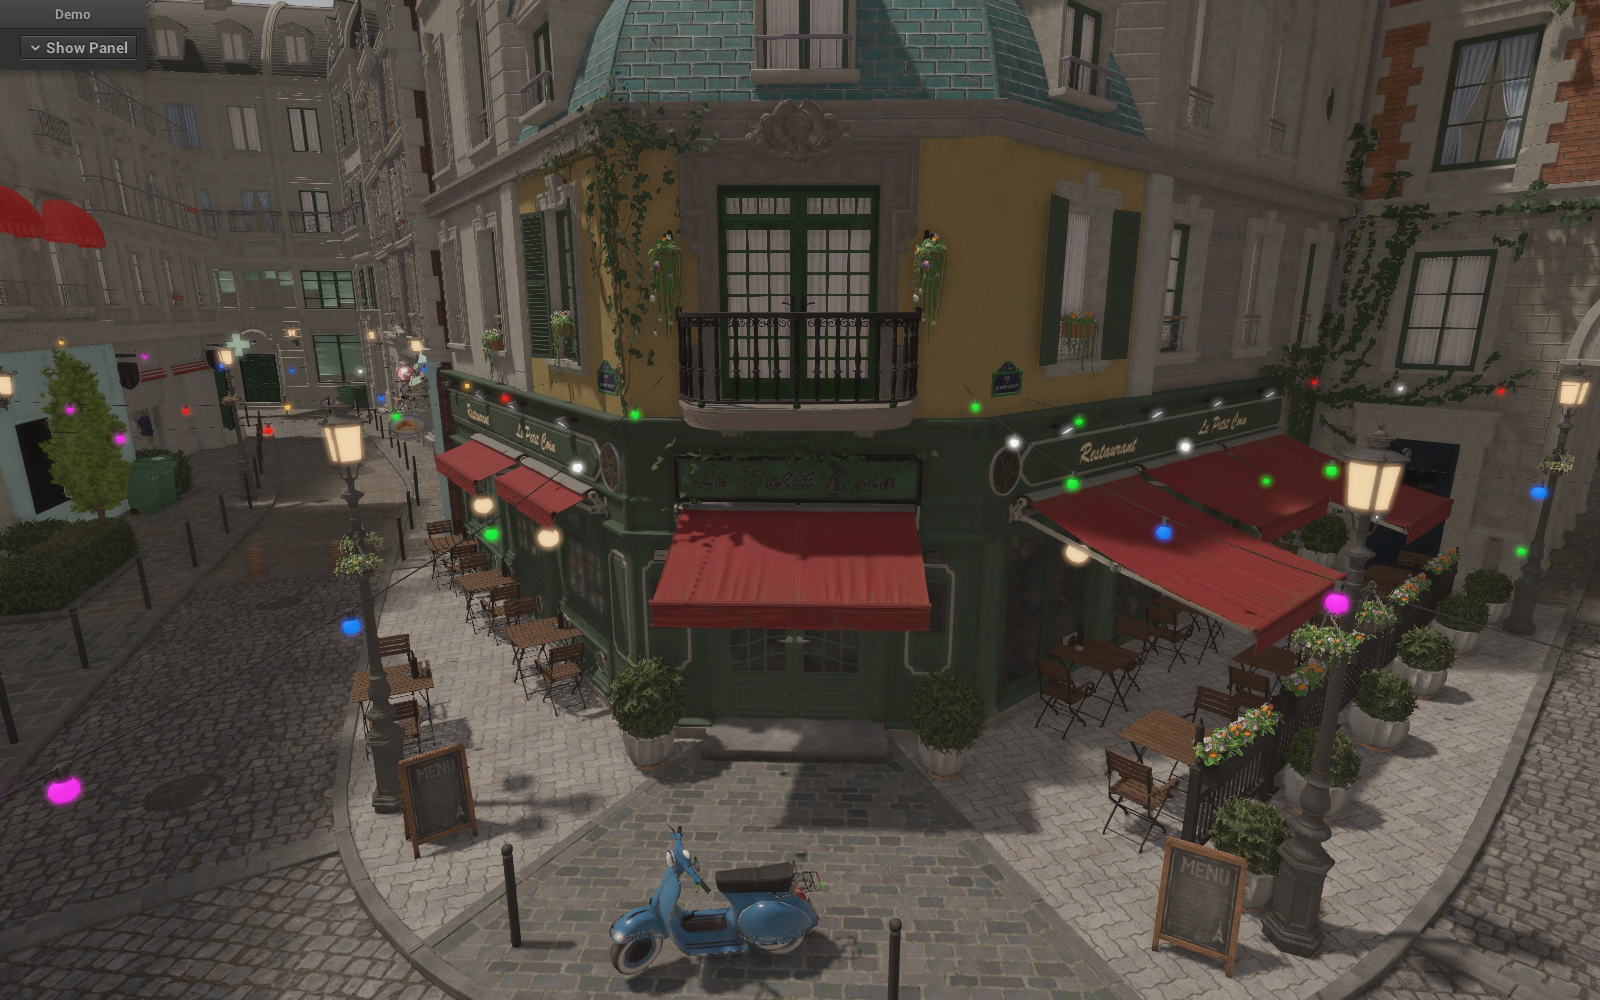
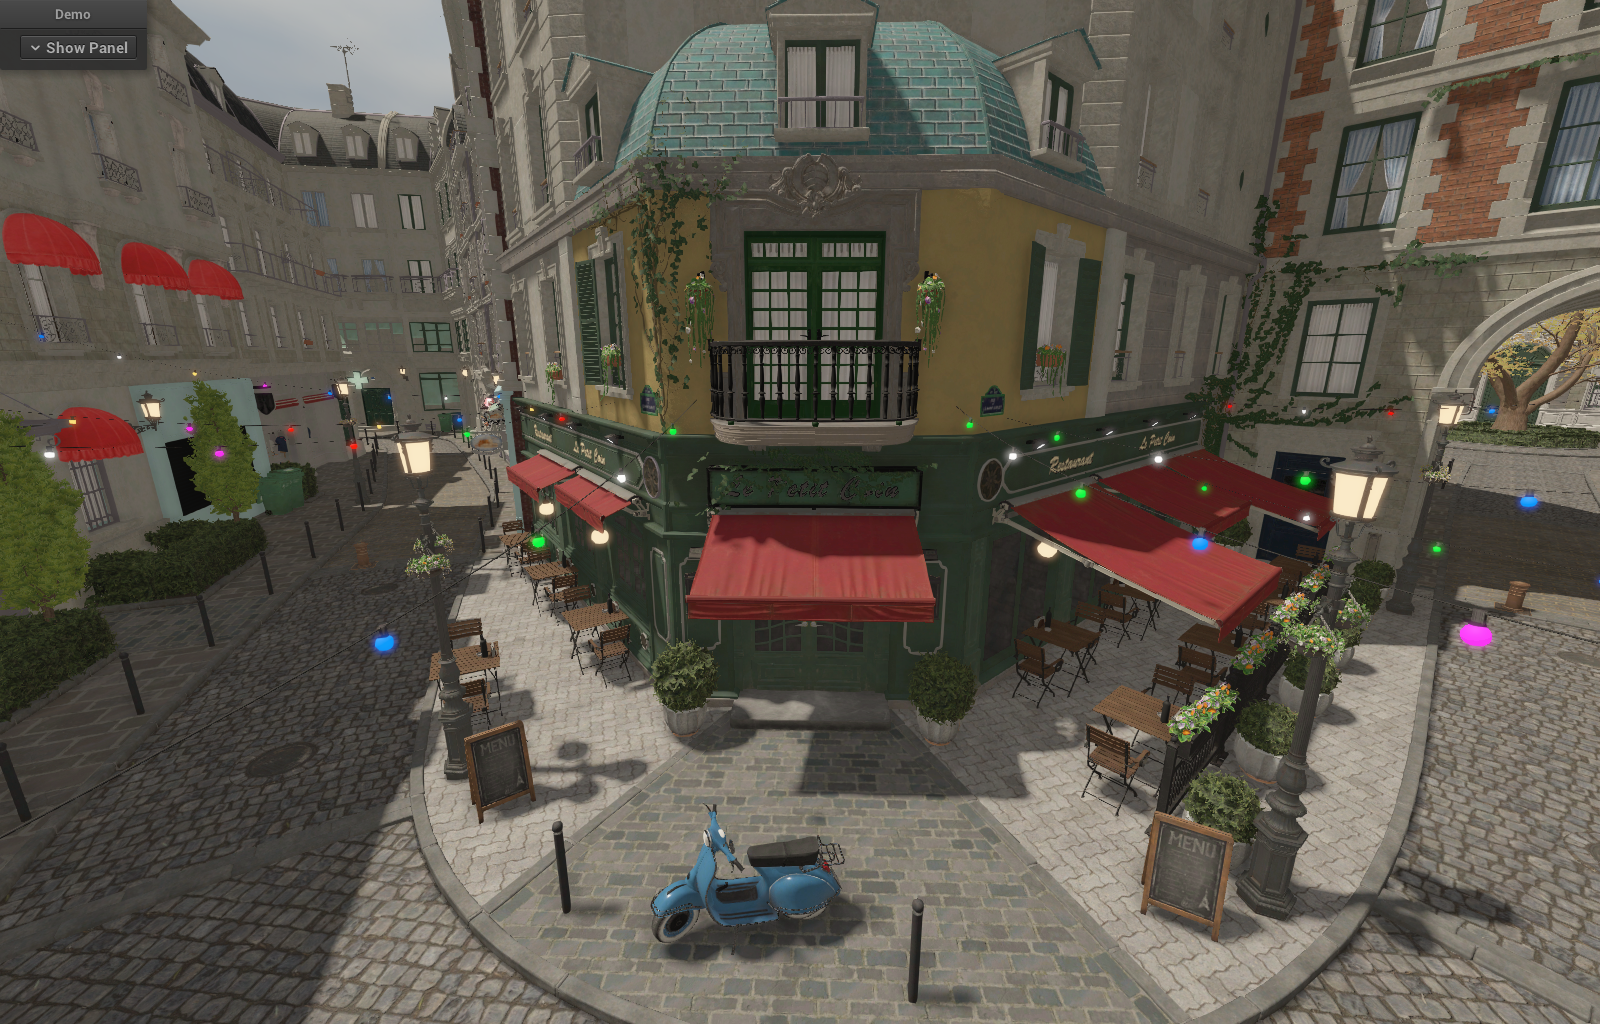
Optimize Shadows

diff --git a/Project1/utils/light.h b/Project1/utils/light.h
@@ -128,7 +128,8 @@ public:
         smShader->use();
         smShader->setMat4("viewProj", viewProj);
         shadowMap->smBuffer->prepare(0);
-        shadowMap->smBuffer->clear();
+        if(shadowMap->texId == 0) shadowMap->smBuffer->clear(ALL_TARGETS, _clear_color_1);
+        else shadowMap->smBuffer->clear(ALL_TARGETS, _clear_color_evsm);
     }
     void filterShadow() {
         filterShader->use();
@@ -233,6 +234,8 @@ public:
         shader.setBool(getStrFormat("dirLights[%d].has_shadow", index), shadow_enabled);
         if (shadow_enabled) {
             shader.setMat4(getStrFormat("dirLights[%d].viewProj", index), viewProj);
+            shader.setFloat(getStrFormat("dirLights[%d].frustum", index), rangeX);
+            shader.setFloat(getStrFormat("dirLights[%d].range_z", index), rangeZ);
             shader.setTextureSource(getStrFormat("dirLights[%d].shadowMap", index), sm_index++, shadowMap->smBuffer->colorAttachs[0].texture->id);
             shader.setFloat(getStrFormat("dirLights[%d].resolution", index), (float)shadowMap->width);
             shader.setFloat(getStrFormat("dirLights[%d].light_size", index), light_size / rangeX);
@@ -386,7 +389,8 @@ public:
         smShader->setMat4("transforms[4]", transforms[4]);
         smShader->setMat4("transforms[5]", transforms[5]);
         shadowMap->smBuffer->prepare(0);
-        shadowMap->smBuffer->clear();
+        if (shadowMap->texId == 0) shadowMap->smBuffer->clear(ALL_TARGETS, _clear_color_1);
+        else shadowMap->smBuffer->clear(ALL_TARGETS, _clear_color_evsm);
     }
     void filterShadow() {
         filterShader->use();

diff --git a/Project1/utils/constants.h b/Project1/utils/constants.h
@@ -11,6 +11,7 @@ const GLuint _color_attachments[] = {
 // For Clear
 const GLfloat _clear_color[4] = { 0.0f, 0.0f, 0.0f, 0.0f };
 const GLfloat _clear_color_1[4] = { 1.0f, 1.0f, 1.0f, 1.0f };
+const GLfloat _clear_color_evsm[4] = { 3.4028e38f, 3.4028e38f, 0.0f, 0.0f };
 const GLuint _atomic_counter_clear_data[8] = { 0, 0, 0, 0, 0, 0, 0, 0 };
 // For Shaders
 const std::vector<const char*> _shader_paths

diff --git a/Project1/Framework.h b/Project1/Framework.h
@@ -126,8 +126,9 @@ private:
     * 1: Bistro
     * 2: Bistro Interior
     * 3: SunTemple
+    * 4: Arcade
     */
-    uint test_scene = 4;
+    uint test_scene = 1;
     float fps, duration;
 };
 
